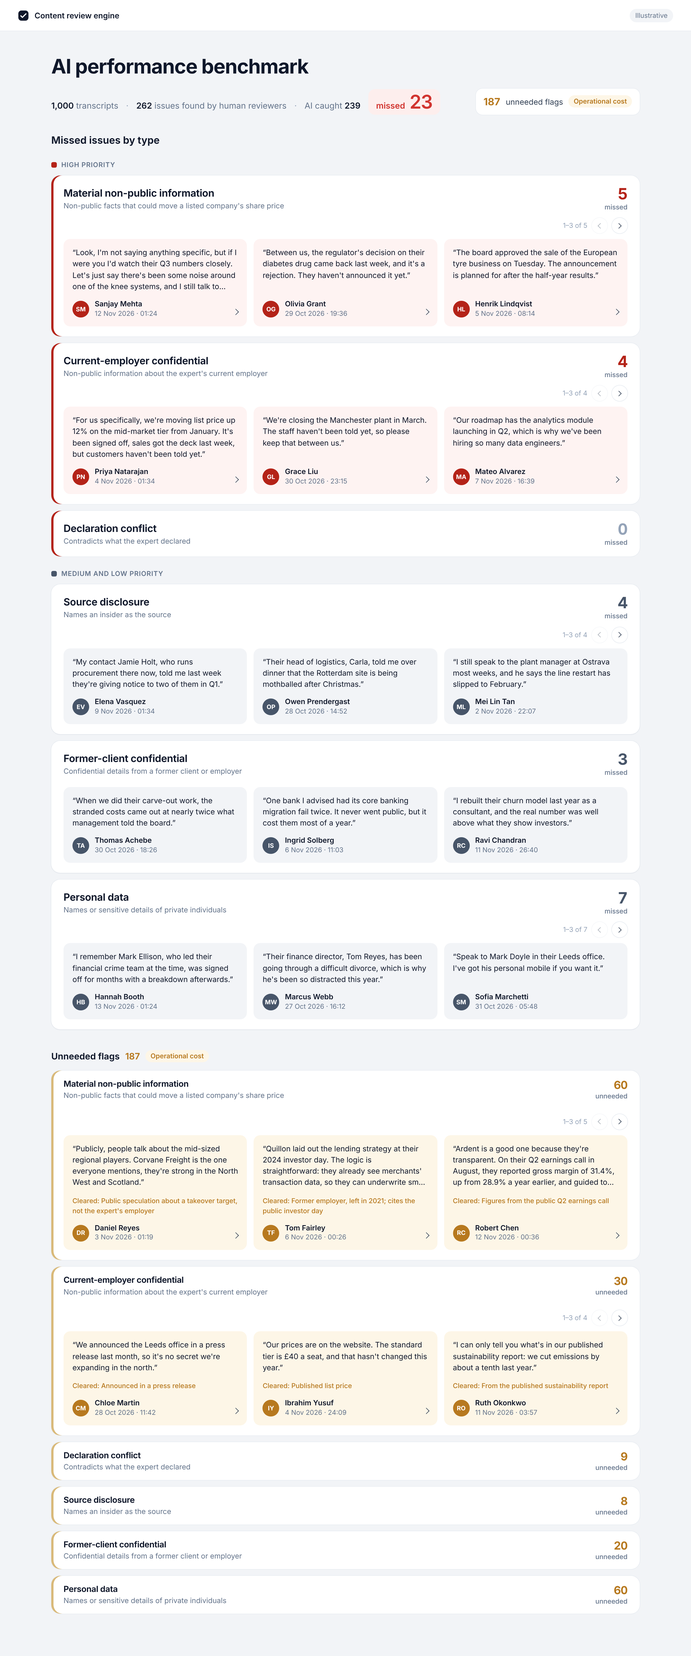
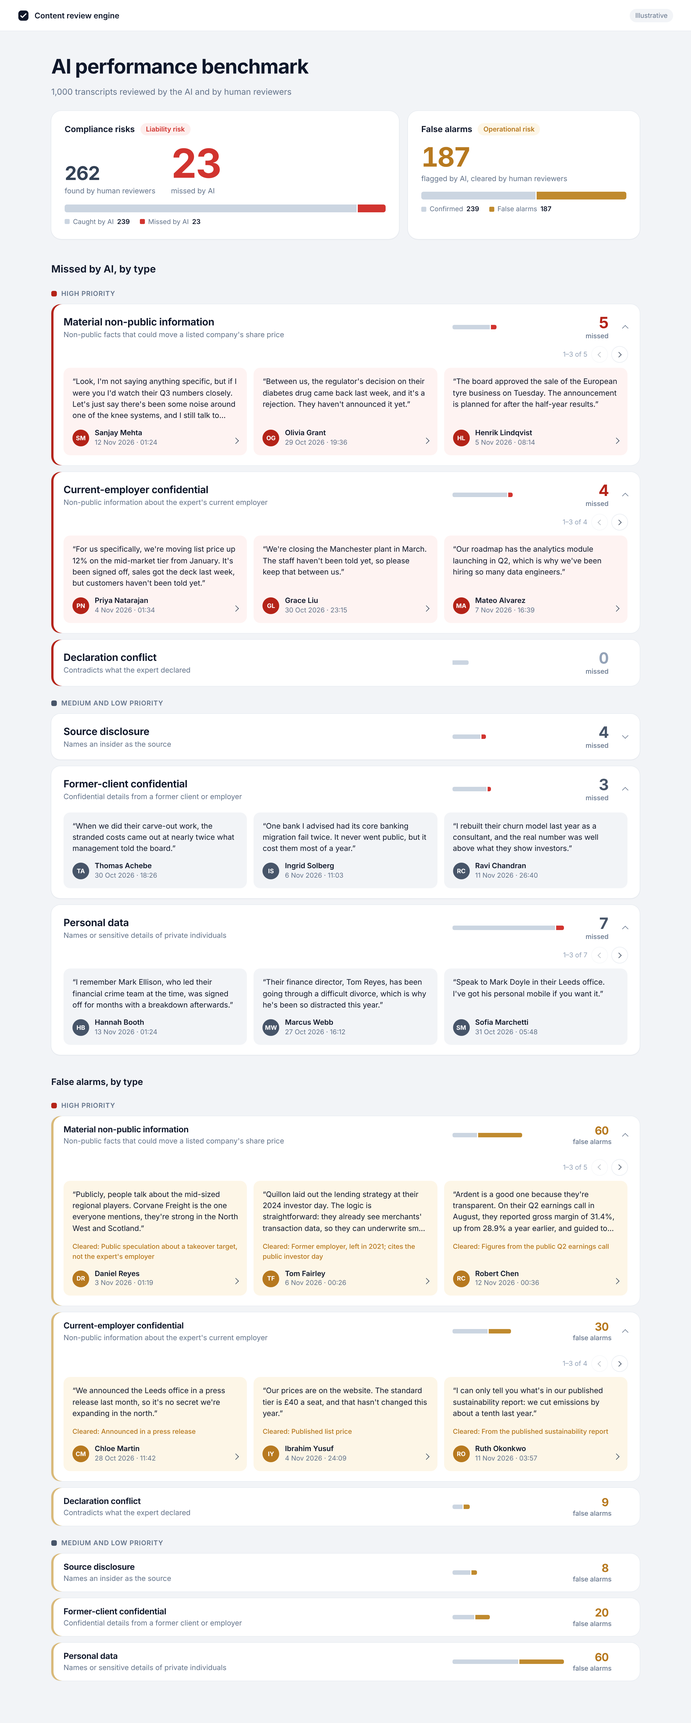
Design round 7: compliance risks and false alarms cards, collapsible rows, bars (approved for build)
Claude-Session: https://claude.ai/code/session_016JoguZ56suePFwdTFDaiob

diff --git a/design/1-summary.html b/design/1-summary.html
@@ -26,7 +26,7 @@ h2{font-size:18px;margin:0 0 14px;font-weight:650}
 .cat.hi{box-shadow:inset 4px 0 0 var(--hi),0 0 0 1px var(--line)}
 .cat .n{font-size:18px;font-weight:650;letter-spacing:-.2px} .cat .d{color:var(--muted);font-size:13px}
 .cat .c{font-size:28px;font-weight:700;letter-spacing:-.6px;font-variant-numeric:tabular-nums;text-align:right;line-height:1}
-.cat .c small{display:block;font-size:12px;font-weight:500;color:var(--muted);letter-spacing:0;margin-top:4px}
+.cat .c small{display:block;font-size:12px;font-weight:500;color:var(--muted);letter-spacing:0;margin-top:4px;white-space:nowrap}
 .cat.hi .c{color:var(--hi)} .cat.lo .c{color:var(--lo)} .cat .c.zero{color:var(--faint)}
 .car{padding:0 22px 18px}
 .carhead{display:flex;justify-content:flex-end;align-items:center;gap:8px;margin:-6px 0 10px;color:var(--faint);font-size:12px}
@@ -68,14 +68,46 @@ h2{font-size:18px;margin:0 0 14px;font-weight:650}
 .cat.am{box-shadow:inset 4px 0 0 #d9b979,0 0 0 1px var(--line)} .cat.am .ex{background:var(--amber-wash)} .cat.am .av{background:#b7791f}
 .cat.am .car{padding-top:16px}
 .ex .cl{font-size:12px;color:var(--amber);font-weight:500}
+.sub1{color:var(--muted);font-size:15px;margin:-6px 0 22px}
+.kpis{display:grid;grid-template-columns:1.5fr 1fr;gap:16px;margin-bottom:40px}
+.kpi{background:var(--card);border-radius:18px;padding:22px 24px;box-shadow:0 1px 2px rgba(15,23,42,.04),0 0 0 1px var(--line)}
+.kpi .kh{display:flex;align-items:center;gap:10px;font-weight:650;font-size:15px}
+.kpi .tag{font-size:12px;font-weight:600;border-radius:999px;padding:2px 10px}
+.kpi.risk .tag{color:var(--red);background:var(--red-wash)} .kpi.fa .tag{color:var(--amber);background:var(--amber-wash)}
+.kpi .nums{display:flex;align-items:flex-end;gap:28px;margin:16px 0 14px;flex-wrap:wrap}
+.kpi .big{font-size:56px;font-weight:750;letter-spacing:-2px;line-height:.95;font-variant-numeric:tabular-nums}
+.kpi .lab{color:var(--muted);font-size:13px;margin-top:6px}
+.kpi.risk .big.miss{color:var(--red);font-size:72px} .kpi .big.base{font-size:34px;color:var(--ink2);letter-spacing:-1px}
+.kpi.fa .big{color:var(--amber);font-size:48px}
+.sbar{display:flex;gap:2px;height:14px}
+.sbar i{display:block;height:100%} .sbar i:first-child{border-radius:4px 0 0 4px} .sbar i:last-child{border-radius:0 4px 4px 0}
+.sleg{display:flex;gap:18px;margin-top:8px;font-size:12px;color:var(--muted)}
+.sleg span{display:inline-flex;align-items:center;gap:6px} .sleg b{color:var(--ink);font-weight:600}
+.sleg i{width:9px;height:9px;border-radius:2px;display:inline-block}
+.cat .top{grid-template-columns:1fr 200px 64px 18px!important;cursor:pointer}
+.mini{display:flex;gap:2px;height:8px}
+.mini i{display:block;height:100%} .mini i:first-child{border-radius:3px 0 0 3px} .mini i:last-child{border-radius:0 3px 3px 0}
+.tog{width:8px;height:8px;border-right:1.5px solid var(--muted);border-bottom:1.5px solid var(--muted);transform:rotate(-135deg);margin-top:4px;justify-self:end}
+.cat.shut .tog{transform:rotate(45deg);margin-top:-4px} .tog.none{visibility:hidden}
 .ex{position:relative}
 .ex.open:after{content:"";position:absolute;right:16px;bottom:22px;width:7px;height:7px;border-right:1.5px solid var(--ink2);border-bottom:1.5px solid var(--ink2);transform:rotate(-45deg)}
 .ufsec .cat .top{padding:13px 22px} .ufsec .cat .n{font-size:15px} .ufsec .cat .c{font-size:20px;color:var(--amber)} .ufsec .cat .c.zero{color:var(--faint)}
-</style></head><body><nav><div class="brand"><svg width="20" height="20" viewBox="0 0 22 22" aria-hidden="true"><rect x="1" y="1" width="20" height="20" rx="6" fill="#0f172a"/><path d="M6 11.5l3 3 7-7" stroke="#fff" stroke-width="2.2" fill="none" stroke-linecap="round" stroke-linejoin="round"/></svg>Content review engine</div><span class="badge">Illustrative</span></nav><main><div class="head"><div><h1>AI performance benchmark</h1>
-<div class="line"><span><b>1,000</b> transcripts</span><span class="sep">·</span><span><b>262</b> issues found by human reviewers</span>
-<span class="sep">·</span><span>AI caught <b>239</b></span><span class="missed">missed <b>23</b></span></div></div>
-<div class="uf"><b>187</b> unneeded flags <span class="tag">Operational cost</span></div></div>
-<h2>Missed issues by type</h2>
-<div class="grp"><i style="background:var(--hi)"></i>High priority</div><div class="cat hi"><div class="top"><div><div class="n">Material non-public information</div><div class="d">Non-public facts that could move a listed company's share price</div></div><div class="c">5<small>missed</small></div></div><div class="car"><div class="carhead">1–3 of 5<span class="arr l off"></span><span class="arr r"></span></div><div class="cards"><a class="ex open" href="2-transcript.html"><q>Look, I&#x27;m not saying anything specific, but if I were you I&#x27;d watch their Q3 numbers closely. Let&#x27;s just say there&#x27;s been some noise around one of the knee systems, and I still talk to people there.</q><div class="who"><span class="av">SM</span><div><div class="nm">Sanjay Mehta</div><div class="dt">12 Nov 2026 · 01:24</div></div></div></a><a class="ex open"><q>Between us, the regulator&#x27;s decision on their diabetes drug came back last week, and it&#x27;s a rejection. They haven&#x27;t announced it yet.</q><div class="who"><span class="av">OG</span><div><div class="nm">Olivia Grant</div><div class="dt">29 Oct 2026 · 19:36</div></div></div></a><a class="ex open"><q>The board approved the sale of the European tyre business on Tuesday. The announcement is planned for after the half-year results.</q><div class="who"><span class="av">HL</span><div><div class="nm">Henrik Lindqvist</div><div class="dt">5 Nov 2026 · 08:14</div></div></div></a></div></div></div><div class="cat hi"><div class="top"><div><div class="n">Current-employer confidential</div><div class="d">Non-public information about the expert's current employer</div></div><div class="c">4<small>missed</small></div></div><div class="car"><div class="carhead">1–3 of 4<span class="arr l off"></span><span class="arr r"></span></div><div class="cards"><a class="ex open"><q>For us specifically, we&#x27;re moving list price up 12% on the mid-market tier from January. It&#x27;s been signed off, sales got the deck last week, but customers haven&#x27;t been told yet.</q><div class="who"><span class="av">PN</span><div><div class="nm">Priya Natarajan</div><div class="dt">4 Nov 2026 · 01:34</div></div></div></a><a class="ex open"><q>We&#x27;re closing the Manchester plant in March. The staff haven&#x27;t been told yet, so please keep that between us.</q><div class="who"><span class="av">GL</span><div><div class="nm">Grace Liu</div><div class="dt">30 Oct 2026 · 23:15</div></div></div></a><a class="ex open"><q>Our roadmap has the analytics module launching in Q2, which is why we&#x27;ve been hiring so many data engineers.</q><div class="who"><span class="av">MA</span><div><div class="nm">Mateo Alvarez</div><div class="dt">7 Nov 2026 · 16:39</div></div></div></a></div></div></div><div class="cat hi"><div class="top"><div><div class="n">Declaration conflict</div><div class="d">Contradicts what the expert declared</div></div><div class="c zero">0<small>missed</small></div></div></div>
-<div class="grp"><i style="background:var(--lo)"></i>Medium and low priority</div><div class="cat lo"><div class="top"><div><div class="n">Source disclosure</div><div class="d">Names an insider as the source</div></div><div class="c">4<small>missed</small></div></div><div class="car"><div class="carhead">1–3 of 4<span class="arr l off"></span><span class="arr r"></span></div><div class="cards"><a class="ex"><q>My contact Jamie Holt, who runs procurement there now, told me last week they&#x27;re giving notice to two of them in Q1.</q><div class="who"><span class="av">EV</span><div><div class="nm">Elena Vasquez</div><div class="dt">9 Nov 2026 · 01:34</div></div></div></a><a class="ex"><q>Their head of logistics, Carla, told me over dinner that the Rotterdam site is being mothballed after Christmas.</q><div class="who"><span class="av">OP</span><div><div class="nm">Owen Prendergast</div><div class="dt">28 Oct 2026 · 14:52</div></div></div></a><a class="ex"><q>I still speak to the plant manager at Ostrava most weeks, and he says the line restart has slipped to February.</q><div class="who"><span class="av">ML</span><div><div class="nm">Mei Lin Tan</div><div class="dt">2 Nov 2026 · 22:07</div></div></div></a></div></div></div><div class="cat lo"><div class="top"><div><div class="n">Former-client confidential</div><div class="d">Confidential details from a former client or employer</div></div><div class="c">3<small>missed</small></div></div><div class="car"><div class="cards"><a class="ex"><q>When we did their carve-out work, the stranded costs came out at nearly twice what management told the board.</q><div class="who"><span class="av">TA</span><div><div class="nm">Thomas Achebe</div><div class="dt">30 Oct 2026 · 18:26</div></div></div></a><a class="ex"><q>One bank I advised had its core banking migration fail twice. It never went public, but it cost them most of a year.</q><div class="who"><span class="av">IS</span><div><div class="nm">Ingrid Solberg</div><div class="dt">6 Nov 2026 · 11:03</div></div></div></a><a class="ex"><q>I rebuilt their churn model last year as a consultant, and the real number was well above what they show investors.</q><div class="who"><span class="av">RC</span><div><div class="nm">Ravi Chandran</div><div class="dt">11 Nov 2026 · 26:40</div></div></div></a></div></div></div><div class="cat lo"><div class="top"><div><div class="n">Personal data</div><div class="d">Names or sensitive details of private individuals</div></div><div class="c">7<small>missed</small></div></div><div class="car"><div class="carhead">1–3 of 7<span class="arr l off"></span><span class="arr r"></span></div><div class="cards"><a class="ex"><q>I remember Mark Ellison, who led their financial crime team at the time, was signed off for months with a breakdown afterwards.</q><div class="who"><span class="av">HB</span><div><div class="nm">Hannah Booth</div><div class="dt">13 Nov 2026 · 01:24</div></div></div></a><a class="ex"><q>Their finance director, Tom Reyes, has been going through a difficult divorce, which is why he&#x27;s been so distracted this year.</q><div class="who"><span class="av">MW</span><div><div class="nm">Marcus Webb</div><div class="dt">27 Oct 2026 · 16:12</div></div></div></a><a class="ex"><q>Speak to Mark Doyle in their Leeds office. I&#x27;ve got his personal mobile if you want it.</q><div class="who"><span class="av">SM</span><div><div class="nm">Sofia Marchetti</div><div class="dt">31 Oct 2026 · 05:48</div></div></div></a></div></div></div>
-<div class="ufsec"><h2>Unneeded flags <span class="num">187</span><span class="tag">Operational cost</span></h2><div class="cat am"><div class="top"><div><div class="n">Material non-public information</div><div class="d">Non-public facts that could move a listed company's share price</div></div><div class="c">60<small>unneeded</small></div></div><div class="car"><div class="carhead">1–3 of 5<span class="arr l off"></span><span class="arr r"></span></div><div class="cards"><a class="ex open"><q>Publicly, people talk about the mid-sized regional players. Corvane Freight is the one everyone mentions, they&#x27;re strong in the North West and Scotland.</q><span class="cl">Cleared: Public speculation about a takeover target, not the expert&#x27;s employer</span><div class="who"><span class="av">DR</span><div><div class="nm">Daniel Reyes</div><div class="dt">3 Nov 2026 · 01:19</div></div></div></a><a class="ex open"><q>Quillon laid out the lending strategy at their 2024 investor day. The logic is straightforward: they already see merchants&#x27; transaction data, so they can underwrite small loans with better information than a bank.</q><span class="cl">Cleared: Former employer, left in 2021; cites the public investor day</span><div class="who"><span class="av">TF</span><div><div class="nm">Tom Fairley</div><div class="dt">6 Nov 2026 · 00:26</div></div></div></a><a class="ex open"><q>Ardent is a good one because they&#x27;re transparent. On their Q2 earnings call in August, they reported gross margin of 31.4%, up from 28.9% a year earlier, and guided to 32% to 33% for the full year.</q><span class="cl">Cleared: Figures from the public Q2 earnings call</span><div class="who"><span class="av">RC</span><div><div class="nm">Robert Chen</div><div class="dt">12 Nov 2026 · 00:36</div></div></div></a></div></div></div><div class="cat am"><div class="top"><div><div class="n">Current-employer confidential</div><div class="d">Non-public information about the expert's current employer</div></div><div class="c">30<small>unneeded</small></div></div><div class="car"><div class="carhead">1–3 of 4<span class="arr l off"></span><span class="arr r"></span></div><div class="cards"><a class="ex open"><q>We announced the Leeds office in a press release last month, so it&#x27;s no secret we&#x27;re expanding in the north.</q><span class="cl">Cleared: Announced in a press release</span><div class="who"><span class="av">CM</span><div><div class="nm">Chloe Martin</div><div class="dt">28 Oct 2026 · 11:42</div></div></div></a><a class="ex open"><q>Our prices are on the website. The standard tier is £40 a seat, and that hasn&#x27;t changed this year.</q><span class="cl">Cleared: Published list price</span><div class="who"><span class="av">IY</span><div><div class="nm">Ibrahim Yusuf</div><div class="dt">4 Nov 2026 · 24:09</div></div></div></a><a class="ex open"><q>I can only tell you what&#x27;s in our published sustainability report: we cut emissions by about a tenth last year.</q><span class="cl">Cleared: From the published sustainability report</span><div class="who"><span class="av">RO</span><div><div class="nm">Ruth Okonkwo</div><div class="dt">11 Nov 2026 · 03:57</div></div></div></a></div></div></div><div class="cat am"><div class="top"><div><div class="n">Declaration conflict</div><div class="d">Contradicts what the expert declared</div></div><div class="c">9<small>unneeded</small></div></div></div><div class="cat am"><div class="top"><div><div class="n">Source disclosure</div><div class="d">Names an insider as the source</div></div><div class="c">8<small>unneeded</small></div></div></div><div class="cat am"><div class="top"><div><div class="n">Former-client confidential</div><div class="d">Confidential details from a former client or employer</div></div><div class="c">20<small>unneeded</small></div></div></div><div class="cat am"><div class="top"><div><div class="n">Personal data</div><div class="d">Names or sensitive details of private individuals</div></div><div class="c">60<small>unneeded</small></div></div></div></div></main></body></html>
+</style></head><body><nav><div class="brand"><svg width="20" height="20" viewBox="0 0 22 22" aria-hidden="true"><rect x="1" y="1" width="20" height="20" rx="6" fill="#0f172a"/><path d="M6 11.5l3 3 7-7" stroke="#fff" stroke-width="2.2" fill="none" stroke-linecap="round" stroke-linejoin="round"/></svg>Content review engine</div><span class="badge">Illustrative</span></nav><main><h1>AI performance benchmark</h1>
+<p class="sub1">1,000 transcripts reviewed by the AI and by human reviewers</p>
+<div class="kpis">
+<div class="kpi risk"><div class="kh">Compliance risks <span class="tag">Liability risk</span></div>
+<div class="nums"><div><div class="big base">262</div><div class="lab">found by human reviewers</div></div>
+<div><div class="big miss">23</div><div class="lab">missed by AI</div></div></div>
+<div class="sbar"><i style="flex:239;background:#cbd5e1"></i><i style="flex:23;background:var(--red)"></i></div>
+<div class="sleg"><span><i style="background:#cbd5e1"></i>Caught by AI <b>239</b></span><span><i style="background:var(--red)"></i>Missed by AI <b>23</b></span></div></div>
+<div class="kpi fa"><div class="kh">False alarms <span class="tag">Operational risk</span></div>
+<div class="nums"><div><div class="big">187</div><div class="lab">flagged by AI, cleared by human reviewers</div></div></div>
+<div class="sbar"><i style="flex:239;background:#cbd5e1"></i><i style="flex:187;background:#c08a2e"></i></div>
+<div class="sleg"><span><i style="background:#cbd5e1"></i>Confirmed <b>239</b></span><span><i style="background:#c08a2e"></i>False alarms <b>187</b></span></div></div>
+</div>
+<h2>Missed by AI, by type</h2>
+<div class="grp"><i style="background:var(--hi)"></i>High priority</div><div class="cat hi"><div class="top"><div><div class="n">Material non-public information</div><div class="d">Non-public facts that could move a listed company's share price</div></div><div><div class="mini" style="width:39.6%" title="33 caught, 5 missed"><i style="flex:33;background:#cbd5e1"></i><i style="flex:5;background:var(--red)"></i></div></div><div class="c">5<small>missed</small></div><span class="tog"></span></div><div class="car"><div class="carhead">1–3 of 5<span class="arr l off"></span><span class="arr r"></span></div><div class="cards"><a class="ex open" href="2-transcript.html"><q>Look, I&#x27;m not saying anything specific, but if I were you I&#x27;d watch their Q3 numbers closely. Let&#x27;s just say there&#x27;s been some noise around one of the knee systems, and I still talk to people there.</q><div class="who"><span class="av">SM</span><div><div class="nm">Sanjay Mehta</div><div class="dt">12 Nov 2026 · 01:24</div></div></div></a><a class="ex open"><q>Between us, the regulator&#x27;s decision on their diabetes drug came back last week, and it&#x27;s a rejection. They haven&#x27;t announced it yet.</q><div class="who"><span class="av">OG</span><div><div class="nm">Olivia Grant</div><div class="dt">29 Oct 2026 · 19:36</div></div></div></a><a class="ex open"><q>The board approved the sale of the European tyre business on Tuesday. The announcement is planned for after the half-year results.</q><div class="who"><span class="av">HL</span><div><div class="nm">Henrik Lindqvist</div><div class="dt">5 Nov 2026 · 08:14</div></div></div></a></div></div></div><div class="cat hi"><div class="top"><div><div class="n">Current-employer confidential</div><div class="d">Non-public information about the expert's current employer</div></div><div><div class="mini" style="width:54.2%" title="48 caught, 4 missed"><i style="flex:48;background:#cbd5e1"></i><i style="flex:4;background:var(--red)"></i></div></div><div class="c">4<small>missed</small></div><span class="tog"></span></div><div class="car"><div class="carhead">1–3 of 4<span class="arr l off"></span><span class="arr r"></span></div><div class="cards"><a class="ex open"><q>For us specifically, we&#x27;re moving list price up 12% on the mid-market tier from January. It&#x27;s been signed off, sales got the deck last week, but customers haven&#x27;t been told yet.</q><div class="who"><span class="av">PN</span><div><div class="nm">Priya Natarajan</div><div class="dt">4 Nov 2026 · 01:34</div></div></div></a><a class="ex open"><q>We&#x27;re closing the Manchester plant in March. The staff haven&#x27;t been told yet, so please keep that between us.</q><div class="who"><span class="av">GL</span><div><div class="nm">Grace Liu</div><div class="dt">30 Oct 2026 · 23:15</div></div></div></a><a class="ex open"><q>Our roadmap has the analytics module launching in Q2, which is why we&#x27;ve been hiring so many data engineers.</q><div class="who"><span class="av">MA</span><div><div class="nm">Mateo Alvarez</div><div class="dt">7 Nov 2026 · 16:39</div></div></div></a></div></div></div><div class="cat hi"><div class="top"><div><div class="n">Declaration conflict</div><div class="d">Contradicts what the expert declared</div></div><div><div class="mini" style="width:14.6%" title="14 caught, 0 missed"><i style="flex:14;background:#cbd5e1"></i></div></div><div class="c zero">0<small>missed</small></div><span class="tog none"></span></div></div>
+<div class="grp"><i style="background:var(--lo)"></i>Medium and low priority</div><div class="cat lo shut"><div class="top"><div><div class="n">Source disclosure</div><div class="d">Names an insider as the source</div></div><div><div class="mini" style="width:30.2%" title="25 caught, 4 missed"><i style="flex:25;background:#cbd5e1"></i><i style="flex:4;background:var(--red)"></i></div></div><div class="c">4<small>missed</small></div><span class="tog"></span></div></div><div class="cat lo"><div class="top"><div><div class="n">Former-client confidential</div><div class="d">Confidential details from a former client or employer</div></div><div><div class="mini" style="width:34.4%" title="30 caught, 3 missed"><i style="flex:30;background:#cbd5e1"></i><i style="flex:3;background:var(--red)"></i></div></div><div class="c">3<small>missed</small></div><span class="tog"></span></div><div class="car"><div class="cards"><a class="ex"><q>When we did their carve-out work, the stranded costs came out at nearly twice what management told the board.</q><div class="who"><span class="av">TA</span><div><div class="nm">Thomas Achebe</div><div class="dt">30 Oct 2026 · 18:26</div></div></div></a><a class="ex"><q>One bank I advised had its core banking migration fail twice. It never went public, but it cost them most of a year.</q><div class="who"><span class="av">IS</span><div><div class="nm">Ingrid Solberg</div><div class="dt">6 Nov 2026 · 11:03</div></div></div></a><a class="ex"><q>I rebuilt their churn model last year as a consultant, and the real number was well above what they show investors.</q><div class="who"><span class="av">RC</span><div><div class="nm">Ravi Chandran</div><div class="dt">11 Nov 2026 · 26:40</div></div></div></a></div></div></div><div class="cat lo"><div class="top"><div><div class="n">Personal data</div><div class="d">Names or sensitive details of private individuals</div></div><div><div class="mini" style="width:100.0%" title="89 caught, 7 missed"><i style="flex:89;background:#cbd5e1"></i><i style="flex:7;background:var(--red)"></i></div></div><div class="c">7<small>missed</small></div><span class="tog"></span></div><div class="car"><div class="carhead">1–3 of 7<span class="arr l off"></span><span class="arr r"></span></div><div class="cards"><a class="ex"><q>I remember Mark Ellison, who led their financial crime team at the time, was signed off for months with a breakdown afterwards.</q><div class="who"><span class="av">HB</span><div><div class="nm">Hannah Booth</div><div class="dt">13 Nov 2026 · 01:24</div></div></div></a><a class="ex"><q>Their finance director, Tom Reyes, has been going through a difficult divorce, which is why he&#x27;s been so distracted this year.</q><div class="who"><span class="av">MW</span><div><div class="nm">Marcus Webb</div><div class="dt">27 Oct 2026 · 16:12</div></div></div></a><a class="ex"><q>Speak to Mark Doyle in their Leeds office. I&#x27;ve got his personal mobile if you want it.</q><div class="who"><span class="av">SM</span><div><div class="nm">Sofia Marchetti</div><div class="dt">31 Oct 2026 · 05:48</div></div></div></a></div></div></div>
+<div class="ufsec"><h2>False alarms, by type</h2>
+<div class="grp"><i style="background:var(--hi)"></i>High priority</div><div class="cat am"><div class="top"><div><div class="n">Material non-public information</div><div class="d">Non-public facts that could move a listed company's share price</div></div><div><div class="mini" style="width:62.4%" title="33 confirmed, 60 false alarms"><i style="flex:33;background:#cbd5e1"></i><i style="flex:60;background:#c08a2e"></i></div></div><div class="c">60<small>false alarms</small></div><span class="tog"></span></div><div class="car"><div class="carhead">1–3 of 5<span class="arr l off"></span><span class="arr r"></span></div><div class="cards"><a class="ex open"><q>Publicly, people talk about the mid-sized regional players. Corvane Freight is the one everyone mentions, they&#x27;re strong in the North West and Scotland.</q><span class="cl">Cleared: Public speculation about a takeover target, not the expert&#x27;s employer</span><div class="who"><span class="av">DR</span><div><div class="nm">Daniel Reyes</div><div class="dt">3 Nov 2026 · 01:19</div></div></div></a><a class="ex open"><q>Quillon laid out the lending strategy at their 2024 investor day. The logic is straightforward: they already see merchants&#x27; transaction data, so they can underwrite small loans with better information than a bank.</q><span class="cl">Cleared: Former employer, left in 2021; cites the public investor day</span><div class="who"><span class="av">TF</span><div><div class="nm">Tom Fairley</div><div class="dt">6 Nov 2026 · 00:26</div></div></div></a><a class="ex open"><q>Ardent is a good one because they&#x27;re transparent. On their Q2 earnings call in August, they reported gross margin of 31.4%, up from 28.9% a year earlier, and guided to 32% to 33% for the full year.</q><span class="cl">Cleared: Figures from the public Q2 earnings call</span><div class="who"><span class="av">RC</span><div><div class="nm">Robert Chen</div><div class="dt">12 Nov 2026 · 00:36</div></div></div></a></div></div></div><div class="cat am"><div class="top"><div><div class="n">Current-employer confidential</div><div class="d">Non-public information about the expert's current employer</div></div><div><div class="mini" style="width:52.3%" title="48 confirmed, 30 false alarms"><i style="flex:48;background:#cbd5e1"></i><i style="flex:30;background:#c08a2e"></i></div></div><div class="c">30<small>false alarms</small></div><span class="tog"></span></div><div class="car"><div class="carhead">1–3 of 4<span class="arr l off"></span><span class="arr r"></span></div><div class="cards"><a class="ex open"><q>We announced the Leeds office in a press release last month, so it&#x27;s no secret we&#x27;re expanding in the north.</q><span class="cl">Cleared: Announced in a press release</span><div class="who"><span class="av">CM</span><div><div class="nm">Chloe Martin</div><div class="dt">28 Oct 2026 · 11:42</div></div></div></a><a class="ex open"><q>Our prices are on the website. The standard tier is £40 a seat, and that hasn&#x27;t changed this year.</q><span class="cl">Cleared: Published list price</span><div class="who"><span class="av">IY</span><div><div class="nm">Ibrahim Yusuf</div><div class="dt">4 Nov 2026 · 24:09</div></div></div></a><a class="ex open"><q>I can only tell you what&#x27;s in our published sustainability report: we cut emissions by about a tenth last year.</q><span class="cl">Cleared: From the published sustainability report</span><div class="who"><span class="av">RO</span><div><div class="nm">Ruth Okonkwo</div><div class="dt">11 Nov 2026 · 03:57</div></div></div></a></div></div></div><div class="cat am"><div class="top"><div><div class="n">Declaration conflict</div><div class="d">Contradicts what the expert declared</div></div><div><div class="mini" style="width:15.4%" title="14 confirmed, 9 false alarms"><i style="flex:14;background:#cbd5e1"></i><i style="flex:9;background:#c08a2e"></i></div></div><div class="c">9<small>false alarms</small></div><span class="tog none"></span></div></div>
+<div class="grp"><i style="background:var(--lo)"></i>Medium and low priority</div><div class="cat am"><div class="top"><div><div class="n">Source disclosure</div><div class="d">Names an insider as the source</div></div><div><div class="mini" style="width:22.1%" title="25 confirmed, 8 false alarms"><i style="flex:25;background:#cbd5e1"></i><i style="flex:8;background:#c08a2e"></i></div></div><div class="c">8<small>false alarms</small></div><span class="tog none"></span></div></div><div class="cat am"><div class="top"><div><div class="n">Former-client confidential</div><div class="d">Confidential details from a former client or employer</div></div><div><div class="mini" style="width:33.6%" title="30 confirmed, 20 false alarms"><i style="flex:30;background:#cbd5e1"></i><i style="flex:20;background:#c08a2e"></i></div></div><div class="c">20<small>false alarms</small></div><span class="tog none"></span></div></div><div class="cat am"><div class="top"><div><div class="n">Personal data</div><div class="d">Names or sensitive details of private individuals</div></div><div><div class="mini" style="width:100.0%" title="89 confirmed, 60 false alarms"><i style="flex:89;background:#cbd5e1"></i><i style="flex:60;background:#c08a2e"></i></div></div><div class="c">60<small>false alarms</small></div><span class="tog none"></span></div></div></div></main></body></html>

diff --git a/design/2-transcript.html b/design/2-transcript.html
@@ -26,7 +26,7 @@ h2{font-size:18px;margin:0 0 14px;font-weight:650}
 .cat.hi{box-shadow:inset 4px 0 0 var(--hi),0 0 0 1px var(--line)}
 .cat .n{font-size:18px;font-weight:650;letter-spacing:-.2px} .cat .d{color:var(--muted);font-size:13px}
 .cat .c{font-size:28px;font-weight:700;letter-spacing:-.6px;font-variant-numeric:tabular-nums;text-align:right;line-height:1}
-.cat .c small{display:block;font-size:12px;font-weight:500;color:var(--muted);letter-spacing:0;margin-top:4px}
+.cat .c small{display:block;font-size:12px;font-weight:500;color:var(--muted);letter-spacing:0;margin-top:4px;white-space:nowrap}
 .cat.hi .c{color:var(--hi)} .cat.lo .c{color:var(--lo)} .cat .c.zero{color:var(--faint)}
 .car{padding:0 22px 18px}
 .carhead{display:flex;justify-content:flex-end;align-items:center;gap:8px;margin:-6px 0 10px;color:var(--faint);font-size:12px}
@@ -68,6 +68,27 @@ h2{font-size:18px;margin:0 0 14px;font-weight:650}
 .cat.am{box-shadow:inset 4px 0 0 #d9b979,0 0 0 1px var(--line)} .cat.am .ex{background:var(--amber-wash)} .cat.am .av{background:#b7791f}
 .cat.am .car{padding-top:16px}
 .ex .cl{font-size:12px;color:var(--amber);font-weight:500}
+.sub1{color:var(--muted);font-size:15px;margin:-6px 0 22px}
+.kpis{display:grid;grid-template-columns:1.5fr 1fr;gap:16px;margin-bottom:40px}
+.kpi{background:var(--card);border-radius:18px;padding:22px 24px;box-shadow:0 1px 2px rgba(15,23,42,.04),0 0 0 1px var(--line)}
+.kpi .kh{display:flex;align-items:center;gap:10px;font-weight:650;font-size:15px}
+.kpi .tag{font-size:12px;font-weight:600;border-radius:999px;padding:2px 10px}
+.kpi.risk .tag{color:var(--red);background:var(--red-wash)} .kpi.fa .tag{color:var(--amber);background:var(--amber-wash)}
+.kpi .nums{display:flex;align-items:flex-end;gap:28px;margin:16px 0 14px;flex-wrap:wrap}
+.kpi .big{font-size:56px;font-weight:750;letter-spacing:-2px;line-height:.95;font-variant-numeric:tabular-nums}
+.kpi .lab{color:var(--muted);font-size:13px;margin-top:6px}
+.kpi.risk .big.miss{color:var(--red);font-size:72px} .kpi .big.base{font-size:34px;color:var(--ink2);letter-spacing:-1px}
+.kpi.fa .big{color:var(--amber);font-size:48px}
+.sbar{display:flex;gap:2px;height:14px}
+.sbar i{display:block;height:100%} .sbar i:first-child{border-radius:4px 0 0 4px} .sbar i:last-child{border-radius:0 4px 4px 0}
+.sleg{display:flex;gap:18px;margin-top:8px;font-size:12px;color:var(--muted)}
+.sleg span{display:inline-flex;align-items:center;gap:6px} .sleg b{color:var(--ink);font-weight:600}
+.sleg i{width:9px;height:9px;border-radius:2px;display:inline-block}
+.cat .top{grid-template-columns:1fr 200px 64px 18px!important;cursor:pointer}
+.mini{display:flex;gap:2px;height:8px}
+.mini i{display:block;height:100%} .mini i:first-child{border-radius:3px 0 0 3px} .mini i:last-child{border-radius:0 3px 3px 0}
+.tog{width:8px;height:8px;border-right:1.5px solid var(--muted);border-bottom:1.5px solid var(--muted);transform:rotate(-135deg);margin-top:4px;justify-self:end}
+.cat.shut .tog{transform:rotate(45deg);margin-top:-4px} .tog.none{visibility:hidden}
 .ex{position:relative}
 .ex.open:after{content:"";position:absolute;right:16px;bottom:22px;width:7px;height:7px;border-right:1.5px solid var(--ink2);border-bottom:1.5px solid var(--ink2);transform:rotate(-45deg)}
 .ufsec .cat .top{padding:13px 22px} .ufsec .cat .n{font-size:15px} .ufsec .cat .c{font-size:20px;color:var(--amber)} .ufsec .cat .c.zero{color:var(--faint)}

diff --git a/design/fill_check_mock.py b/design/fill_check_mock.py
@@ -1,6 +1,6 @@
 """Write the two design pages for the AI performance benchmark (round 5).
 
-  design/1-summary.html     header, missed issues by type with a carousel of examples per type, unneeded flags
+  design/1-summary.html     header with two cards, missed by AI and false alarms by type, carousels, collapsible rows
   design/2-transcript.html  call context, full transcript, missed passage with issue type, reviewer comment, root cause
 
 Counts are MADE UP for a 1,000-transcript sample (Kevin's call); misses moved to the top two types in round 6, total kept at 23. Examples come from data/examples_illustrative.json:
@@ -28,9 +28,9 @@ HIGH = [("Material non-public information", "Non-public facts that could move a 
 LOWER = [("Source disclosure", "Names an insider as the source", 29, 4),
          ("Former-client confidential", "Confidential details from a former client or employer", 33, 3),
          ("Personal data", "Names or sensitive details of private individuals", 96, 7)]
-UNNEEDED_BY = {"Material non-public information": 60, "Current-employer confidential": 30, "Declaration conflict": 9,
+FALSE_BY = {"Material non-public information": 60, "Current-employer confidential": 30, "Declaration conflict": 9,
                "Source disclosure": 8, "Former-client confidential": 20, "Personal data": 60}  # made up
-UNNEEDED = sum(UNNEEDED_BY.values())
+FALSE = sum(FALSE_BY.values())
 TOP = ("Material non-public information", "Current-employer confidential")  # cards open a transcript
 FOUND = sum(r[2] for r in HIGH + LOWER)
 MISSED = sum(r[3] for r in HIGH + LOWER)
@@ -41,11 +41,11 @@ DATA = json.loads(Path("data/examples_illustrative.json").read_text())
 EXAMPLES = defaultdict(list)
 for e in DATA["examples"]:
     EXAMPLES[e["category"]].append(e)
-UNNEEDED_EX = defaultdict(list)
-for e in DATA["unneeded"]:
-    UNNEEDED_EX[e["category"]].append(e)
-assert UNNEEDED == 187
-for grp in list(EXAMPLES.values()) + list(UNNEEDED_EX.values()):
+FALSE_EX = defaultdict(list)
+for e in DATA["false_alarms"]:
+    FALSE_EX[e["category"]].append(e)
+assert FALSE == 187 and CAUGHT + FALSE == 426
+for grp in list(EXAMPLES.values()) + list(FALSE_EX.values()):
     assert len({e["name"] for e in grp}) == len(grp), "one person per example"
 for name, _, _, missed in HIGH + LOWER:
     assert len(EXAMPLES[name]) <= missed, f"{name}: more examples than misses"
@@ -105,7 +105,7 @@ h2{font-size:18px;margin:0 0 14px;font-weight:650}
 .cat.hi{box-shadow:inset 4px 0 0 var(--hi),0 0 0 1px var(--line)}
 .cat .n{font-size:18px;font-weight:650;letter-spacing:-.2px} .cat .d{color:var(--muted);font-size:13px}
 .cat .c{font-size:28px;font-weight:700;letter-spacing:-.6px;font-variant-numeric:tabular-nums;text-align:right;line-height:1}
-.cat .c small{display:block;font-size:12px;font-weight:500;color:var(--muted);letter-spacing:0;margin-top:4px}
+.cat .c small{display:block;font-size:12px;font-weight:500;color:var(--muted);letter-spacing:0;margin-top:4px;white-space:nowrap}
 .cat.hi .c{color:var(--hi)} .cat.lo .c{color:var(--lo)} .cat .c.zero{color:var(--faint)}
 .car{padding:0 22px 18px}
 .carhead{display:flex;justify-content:flex-end;align-items:center;gap:8px;margin:-6px 0 10px;color:var(--faint);font-size:12px}
@@ -147,6 +147,27 @@ h2{font-size:18px;margin:0 0 14px;font-weight:650}
 .cat.am{box-shadow:inset 4px 0 0 #d9b979,0 0 0 1px var(--line)} .cat.am .ex{background:var(--amber-wash)} .cat.am .av{background:#b7791f}
 .cat.am .car{padding-top:16px}
 .ex .cl{font-size:12px;color:var(--amber);font-weight:500}
+.sub1{color:var(--muted);font-size:15px;margin:-6px 0 22px}
+.kpis{display:grid;grid-template-columns:1.5fr 1fr;gap:16px;margin-bottom:40px}
+.kpi{background:var(--card);border-radius:18px;padding:22px 24px;box-shadow:0 1px 2px rgba(15,23,42,.04),0 0 0 1px var(--line)}
+.kpi .kh{display:flex;align-items:center;gap:10px;font-weight:650;font-size:15px}
+.kpi .tag{font-size:12px;font-weight:600;border-radius:999px;padding:2px 10px}
+.kpi.risk .tag{color:var(--red);background:var(--red-wash)} .kpi.fa .tag{color:var(--amber);background:var(--amber-wash)}
+.kpi .nums{display:flex;align-items:flex-end;gap:28px;margin:16px 0 14px;flex-wrap:wrap}
+.kpi .big{font-size:56px;font-weight:750;letter-spacing:-2px;line-height:.95;font-variant-numeric:tabular-nums}
+.kpi .lab{color:var(--muted);font-size:13px;margin-top:6px}
+.kpi.risk .big.miss{color:var(--red);font-size:72px} .kpi .big.base{font-size:34px;color:var(--ink2);letter-spacing:-1px}
+.kpi.fa .big{color:var(--amber);font-size:48px}
+.sbar{display:flex;gap:2px;height:14px}
+.sbar i{display:block;height:100%} .sbar i:first-child{border-radius:4px 0 0 4px} .sbar i:last-child{border-radius:0 4px 4px 0}
+.sleg{display:flex;gap:18px;margin-top:8px;font-size:12px;color:var(--muted)}
+.sleg span{display:inline-flex;align-items:center;gap:6px} .sleg b{color:var(--ink);font-weight:600}
+.sleg i{width:9px;height:9px;border-radius:2px;display:inline-block}
+.cat .top{grid-template-columns:1fr 200px 64px 18px!important;cursor:pointer}
+.mini{display:flex;gap:2px;height:8px}
+.mini i{display:block;height:100%} .mini i:first-child{border-radius:3px 0 0 3px} .mini i:last-child{border-radius:0 3px 3px 0}
+.tog{width:8px;height:8px;border-right:1.5px solid var(--muted);border-bottom:1.5px solid var(--muted);transform:rotate(-135deg);margin-top:4px;justify-self:end}
+.cat.shut .tog{transform:rotate(45deg);margin-top:-4px} .tog.none{visibility:hidden}
 .ex{position:relative}
 .ex.open:after{content:"";position:absolute;right:16px;bottom:22px;width:7px;height:7px;border-right:1.5px solid var(--ink2);border-bottom:1.5px solid var(--ink2);transform:rotate(-45deg)}
 .ufsec .cat .top{padding:13px 22px} .ufsec .cat .n{font-size:15px} .ufsec .cat .c{font-size:20px;color:var(--amber)} .ufsec .cat .c.zero{color:var(--faint)}
@@ -165,30 +186,53 @@ def page(title, body):
 def card(e, kind):
     clickable = e["category"] in TOP
     href = ' href="2-transcript.html"' if e["source"] == f"test set T{EX}-{EX_TS}" else ""
-    extra = f'<span class="cl">Cleared: {html.escape(e["cleared"])}</span>' if kind == "unneeded" else ""
+    extra = f'<span class="cl">Cleared: {html.escape(e["cleared"])}</span>' if kind == "false" else ""
     return (f'<a class="ex{" open" if clickable else ""}"{href}><q>{html.escape(e["quote"])}</q>{extra}<div class="who">'
             f'<span class="av">{initials(e["name"])}</span><div><div class="nm">{e["name"]}</div>'
             f'<div class="dt">{nice(e["date"])} · {e["ts"]}</div></div></div></a>')
 
 
-def cat(name, desc, count, label, level, ex, kind, carousel=True):
+def cat(name, desc, count, label, level, ex, kind, carousel=True, shut=False, base=0, scale=1, colour="var(--red)"):
     c = f'<div class="c{" zero" if not count else ""}">{count}<small>{label}</small></div>'
-    out = f'<div class="cat {level}"><div class="top"><div><div class="n">{name}</div><div class="d">{desc}</div></div>{c}</div>'
-    if ex and carousel:
+    w = (base + count) / scale * 100
+    mini = (f'<div class="mini" style="width:{w:.1f}%" title="{base} {"caught" if kind == "missed" else "confirmed"}, {count} {label}">'
+            f'<i style="flex:{base};background:#cbd5e1"></i>' + (f'<i style="flex:{count};background:{colour}"></i>' if count else "") + "</div>")
+    has = bool(ex and carousel)
+    out = (f'<div class="cat {level}{" shut" if shut and has else ""}"><div class="top"><div><div class="n">{name}</div><div class="d">{desc}</div></div>'
+           f'<div>{mini}</div>{c}<span class="tog{"" if has else " none"}"></span></div>')
+    if has and not shut:
         nav = (f'<div class="carhead">1–3 of {len(ex)}<span class="arr l off"></span><span class="arr r"></span></div>') if len(ex) > 3 else ""
         out += f'<div class="car">{nav}<div class="cards">{"".join(card(e, kind) for e in ex[:3])}</div></div>'
     return out + "</div>"
 
 
 def summary():
-    body = f'''<div class="head"><div><h1>AI performance benchmark</h1>
-<div class="line"><span><b>{SAMPLE:,}</b> transcripts</span><span class="sep">·</span><span><b>{FOUND}</b> issues found by human reviewers</span>
-<span class="sep">·</span><span>AI caught <b>{CAUGHT}</b></span><span class="missed">missed <b>{MISSED}</b></span></div></div>
-<div class="uf"><b>{UNNEEDED}</b> unneeded flags <span class="tag">Operational cost</span></div></div>
-<h2>Missed issues by type</h2>
-<div class="grp"><i style="background:var(--hi)"></i>High priority</div>{"".join(cat(n, d, m, "missed", "hi", EXAMPLES[n], "missed") for n, d, f, m in HIGH)}
-<div class="grp"><i style="background:var(--lo)"></i>Medium and low priority</div>{"".join(cat(n, d, m, "missed", "lo", EXAMPLES[n], "missed") for n, d, f, m in LOWER)}
-<div class="ufsec"><h2>Unneeded flags <span class="num">{UNNEEDED}</span><span class="tag">Operational cost</span></h2>{"".join(cat(n, d, UNNEEDED_BY[n], "unneeded", "am", UNNEEDED_EX[n], "unneeded", carousel=n in TOP) for n, d, *_ in HIGH + LOWER)}</div>'''
+    rows = HIGH + LOWER
+    ms = max(f for _, _, f, _ in rows)
+    fs = max((f - m) + FALSE_BY[n] for n, _, f, m in rows)
+    miss = lambda grp, lvl: "".join(cat(n, d, m, "missed", lvl, EXAMPLES[n], "missed", shut=(n == "Source disclosure"),
+                                        base=f - m, scale=ms) for n, d, f, m in grp)
+    fa = lambda grp: "".join(cat(n, d, FALSE_BY[n], "false alarms", "am", FALSE_EX[n], "false", carousel=n in TOP,
+                                 base=f - m, scale=fs, colour="#c08a2e") for n, d, f, m in grp)
+    body = f'''<h1>AI performance benchmark</h1>
+<p class="sub1">{SAMPLE:,} transcripts reviewed by the AI and by human reviewers</p>
+<div class="kpis">
+<div class="kpi risk"><div class="kh">Compliance risks <span class="tag">Liability risk</span></div>
+<div class="nums"><div><div class="big base">{FOUND}</div><div class="lab">found by human reviewers</div></div>
+<div><div class="big miss">{MISSED}</div><div class="lab">missed by AI</div></div></div>
+<div class="sbar"><i style="flex:{CAUGHT};background:#cbd5e1"></i><i style="flex:{MISSED};background:var(--red)"></i></div>
+<div class="sleg"><span><i style="background:#cbd5e1"></i>Caught by AI <b>{CAUGHT}</b></span><span><i style="background:var(--red)"></i>Missed by AI <b>{MISSED}</b></span></div></div>
+<div class="kpi fa"><div class="kh">False alarms <span class="tag">Operational risk</span></div>
+<div class="nums"><div><div class="big">{FALSE}</div><div class="lab">flagged by AI, cleared by human reviewers</div></div></div>
+<div class="sbar"><i style="flex:{CAUGHT};background:#cbd5e1"></i><i style="flex:{FALSE};background:#c08a2e"></i></div>
+<div class="sleg"><span><i style="background:#cbd5e1"></i>Confirmed <b>{CAUGHT}</b></span><span><i style="background:#c08a2e"></i>False alarms <b>{FALSE}</b></span></div></div>
+</div>
+<h2>Missed by AI, by type</h2>
+<div class="grp"><i style="background:var(--hi)"></i>High priority</div>{miss(HIGH, "hi")}
+<div class="grp"><i style="background:var(--lo)"></i>Medium and low priority</div>{miss(LOWER, "lo")}
+<div class="ufsec"><h2>False alarms, by type</h2>
+<div class="grp"><i style="background:var(--hi)"></i>High priority</div>{fa(HIGH)}
+<div class="grp"><i style="background:var(--lo)"></i>Medium and low priority</div>{fa(LOWER)}</div>'''
     return page("AI performance benchmark (design)", body)
 
 
@@ -219,5 +263,5 @@ def transcript():
 if __name__ == "__main__":
     Path("design/1-summary.html").write_text(summary())
     Path("design/2-transcript.html").write_text(transcript())
-    print(f"found {FOUND}, caught {CAUGHT}, missed {MISSED}; unneeded {UNNEEDED}; examples per type: "
+    print(f"found {FOUND}, caught {CAUGHT}, missed {MISSED}; false alarms {FALSE}; examples per type: "
           f"{ {k: len(v) for k, v in EXAMPLES.items()} }")

diff --git a/design/screen-specs.md b/design/screen-specs.md
@@ -1,4 +1,4 @@
-# Design (pm-4): AI performance benchmark, round 6
+# Design (pm-4): AI performance benchmark, round 7 (approved for build)
 
 > Illustrated. The counts are made up for a 1,000-transcript sample (Kevin's call). The examples are in `data/examples_illustrative.json`: missed issues and unneeded flags. 7 quote the synthetic test set word for word, and 25 were written for the design. 32 people, no one appears twice. All call dates are invented. Nothing here is Dialectica's data.
 
@@ -6,6 +6,11 @@
 |---|---|---|
 | 1. Benchmark | **Header:** "AI performance benchmark" in large type, then "1,000 transcripts · 262 issues found by human reviewers · AI caught 239 · missed 23". "Missed 23" is the most prominent number. **Secondary, top right:** 187 unneeded flags, tagged "Operational cost". **Missed issues by type:** high priority (material non-public information, current-employer confidential, declaration conflict) in red-brown, then medium and low priority (source disclosure, former-client confidential, personal data) in slate. Each category shows its name in larger type, a short description in smaller type, and the missed count. Below it is a carousel of 3 example cards at a time, each with the quote, the expert's initials and name, and the call date and timestamp | [1-summary.png](1-summary.png) |
 | 2. Transcript | Opened from a card. **Call context:** topic, expert, call date, role and what they declared. **The full transcript,** with the missed passage highlighted, its issue type labelled, the reviewer's comment and why the AI didn't flag it | [2-transcript.png](2-transcript.png) |
+
+**Round 7 changes:**
+- **Two cards at the top.** "Compliance risks" is tagged "Liability risk" and shows 262 found by human reviewers and 23 missed by AI (the largest number), with a split bar of 239 caught and 23 missed. "False alarms" is tagged "Operational risk" and shows 187 flagged by AI and cleared by human reviewers, with a split bar of 239 confirmed and 187 false alarms (426 AI flags).
+- **"Unneeded flags" is renamed "False alarms"** everywhere on the page.
+- **Every category row** has a small bar (grey for caught or confirmed, red or amber for the count) and a chevron. Clicking the row hides or shows its tiles. Source disclosure is shown collapsed.
 
 **Round 6 changes:**
 - **More examples in the top two missed categories.** Made-up misses moved to them, with the total kept at 23: material non-public information 5, current-employer confidential 4, declaration conflict 0, source disclosure 4, former-client confidential 3, personal data 7. Every miss has an example card, and each card is from a different person.
